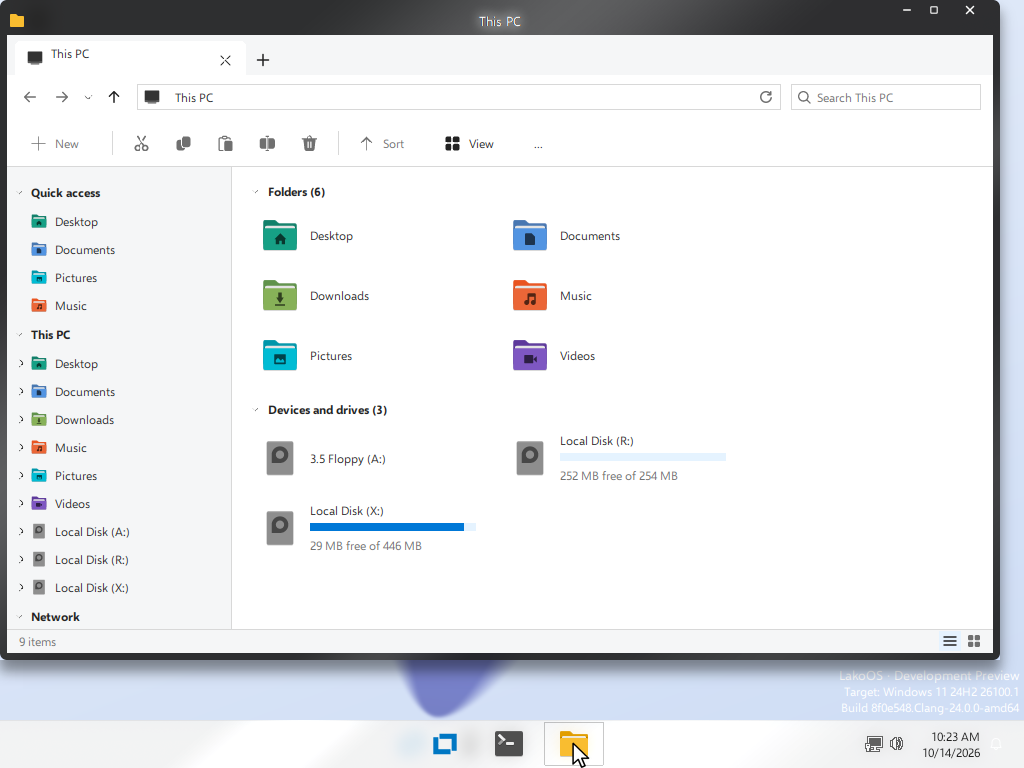
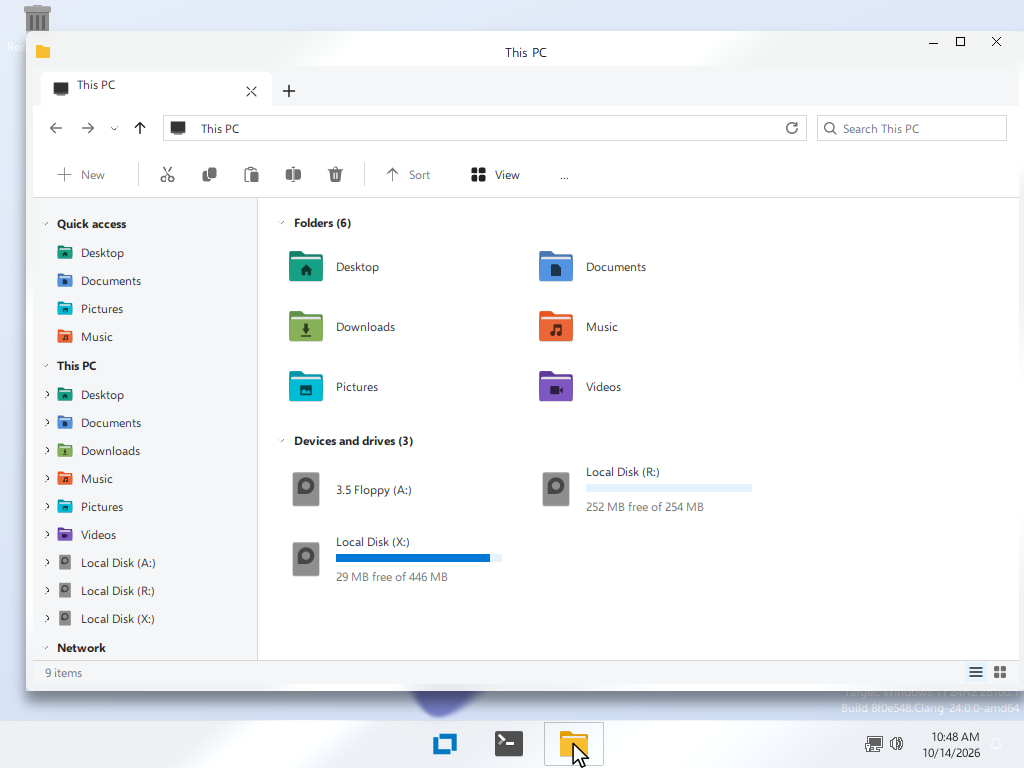
[UXTHEME] Light caption and flat caption buttons in light theme

diff --git a/dll/win32/uxtheme/nonclient.c b/dll/win32/uxtheme/nonclient.c
@@ -15,6 +15,14 @@
 #define NC_PREVIEW_MSGBOX_OFFSET_Y 71
 
 /* Shared with DwmSetWindowAttribute in dwmapi.dll. */
+BOOLEAN WINAPI ShouldAppsUseDarkMode(void);
+
+static BOOL
+ThemeUseLightCaption(VOID)
+{
+    return !ShouldAppsUseDarkMode();
+}
+
 static const WCHAR immersive_dark_mode_propW[] = L"ReactOS.Dwm.ImmersiveDarkMode";
 
 #define CAPTION_GLOW_RADIUS 5
@@ -355,7 +363,9 @@ HRESULT WINAPI ThemeDrawCaptionText(PDRAW_CONTEXT pcontext, RECT* pRect, int iPa
     if (hFont)
         oldFont = SelectObject(pcontext->hDC, hFont);
 
-    if (pcontext->DarkMode)
+    if (pcontext->DarkMode && ThemeUseLightCaption())
+        textColor = pcontext->Active ? RGB(0, 0, 0) : RGB(117, 117, 117);
+    else if (pcontext->DarkMode)
         textColor = pcontext->Active ? RGB(255, 255, 255) : RGB(160, 160, 160);
     else
         textColor = GetThemeSysColor(pcontext->theme, pcontext->Active ? COLOR_CAPTIONTEXT : COLOR_INACTIVECAPTIONTEXT);
@@ -711,6 +721,8 @@ void ThemeCalculateCaptionButtonsPos(HWND hWnd, HTHEME htheme)
 static COLORREF
 ThemeDarkCaptionColor(PDRAW_CONTEXT pcontext)
 {
+    if (ThemeUseLightCaption())
+        return pcontext->Active ? RGB(243, 243, 243) : RGB(249, 249, 249);
     return pcontext->Active ? RGB(32, 32, 32) : RGB(43, 43, 43);
 }
 
@@ -778,22 +790,41 @@ ThemeDrawDarkCaptionButton(PDRAW_CONTEXT pcontext,
     HBRUSH oldBrush;
     INT centerX, centerY, radius;
 
+    BOOL light = ThemeUseLightCaption();
+    BOOL closeHot = FALSE;
+
     if (iStateId == BUTTON_HOT || iStateId == BUTTON_INACTIVE_HOT)
-        background = buttonId == CLOSEBUTTON ? RGB(196, 43, 28)
-                     : ThemeLiftColor(background, CAPTION_BUTTON_HOT_LIFT);
+    {
+        if (buttonId == CLOSEBUTTON)
+        {
+            background = RGB(196, 43, 28);
+            closeHot = TRUE;
+        }
+        else
+            background = light ? RGB(229, 229, 229) : ThemeLiftColor(background, CAPTION_BUTTON_HOT_LIFT);
+    }
     else if (iStateId == BUTTON_PRESSED || iStateId == BUTTON_INACTIVE_PRESSED)
-        background = buttonId == CLOSEBUTTON ? RGB(176, 39, 25)
-                     : ThemeLiftColor(background, CAPTION_BUTTON_PRESSED_LIFT);
+    {
+        if (buttonId == CLOSEBUTTON)
+        {
+            background = RGB(176, 39, 25);
+            closeHot = TRUE;
+        }
+        else
+            background = light ? RGB(218, 218, 218) : ThemeLiftColor(background, CAPTION_BUTTON_PRESSED_LIFT);
+    }
 
     ThemeFillSolidRect(pcontext->hDC, rect, background);
 
     if (iStateId == BUTTON_DISABLED || iStateId == BUTTON_INACTIVE_DISABLED)
-        foreground = RGB(105, 105, 105);
+        foreground = light ? RGB(160, 160, 160) : RGB(105, 105, 105);
+    else if (closeHot)
+        foreground = RGB(255, 255, 255);
     else if (!pcontext->Active && iStateId != BUTTON_INACTIVE_HOT &&
              iStateId != BUTTON_INACTIVE_PRESSED)
-        foreground = RGB(160, 160, 160);
+        foreground = light ? RGB(117, 117, 117) : RGB(160, 160, 160);
     else
-        foreground = RGB(255, 255, 255);
+        foreground = light ? RGB(0, 0, 0) : RGB(255, 255, 255);
 
     if (iStateId == BUTTON_DISABLED || iStateId == BUTTON_INACTIVE_DISABLED)
         shade = 2;
@@ -817,7 +848,8 @@ ThemeDrawDarkCaptionButton(PDRAW_CONTEXT pcontext,
     default:
         break;
     }
-    if (glyphId && ThemeDrawCaptionGlyph(pcontext->hDC, rect, glyphId, shade))
+    if (glyphId && foreground == RGB(255, 255, 255) &&
+        ThemeDrawCaptionGlyph(pcontext->hDC, rect, glyphId, shade))
         return;
 
     centerX = (rect->left + rect->right) / 2;
